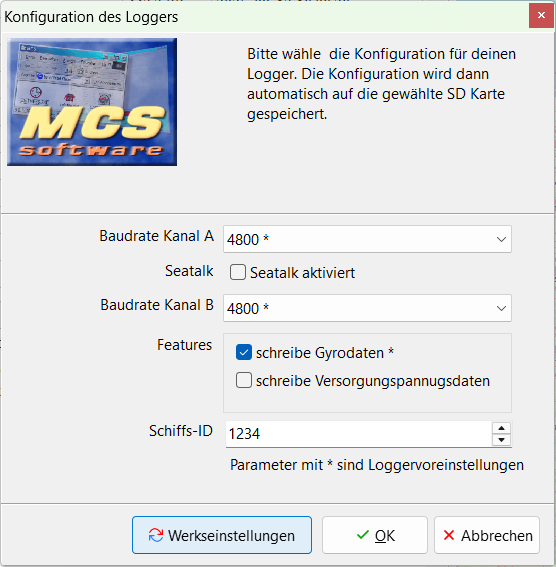
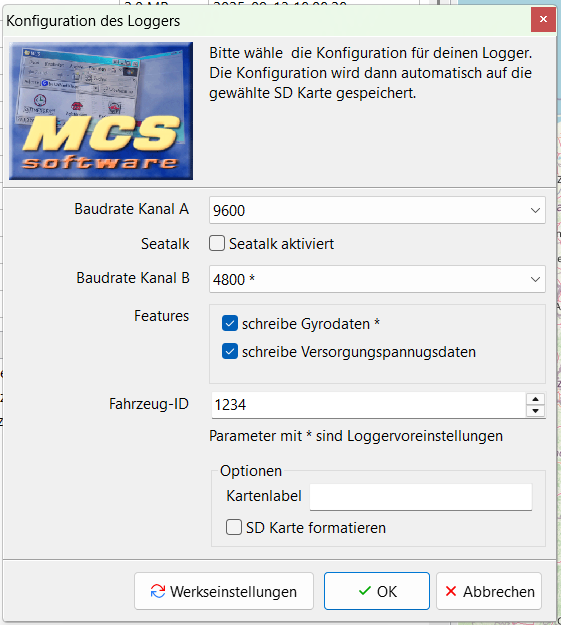
some issues from the tracker.
fixes #6, #7, #8

Changed region(s): [[0.0, 0.0, 1.0, 1.0]]

diff --git a/documentation/MCS Depth Logger UI.md b/documentation/MCS Depth Logger UI.md
@@ -87,7 +87,7 @@ Oder aber du verwendest die in diesem Programm eingebaute Funktion.
 
 ### Konfiguration
 
-![](lg_settings.png)
+![Konfiguration](lg_settings.png)
 
 Zunächst musst du die Baudrate des Gerätes an Port A angeben. Falls dein Geräte Seatalk verwendet, selektiere bitte die Checkbox Seatalk, verwende zusätzlich am Anschluss A den Seatalk Treiber und steck im Geräte den Jumper um. Eine Baudrate brauchst du nicht einzustellen.
 Die Default-Baudrate liegt bei 4800 Baud.
@@ -100,6 +100,12 @@ Versorgungsspannungsdaten dienen der Analyse von Probleme bei der Spannungsverso
 
 **Fahrzeug-ID**
 (optional) Wenn dein Fahrzeug auf der OpenSeaMap Seite registriert ist, kannst du hier deine ID eingeben. Diese ID wird dann im Logger gespeichert und mit in die Datendateien geschrieben.
+
+**Optionen:** In den Optionen können spezielle zusätzliche Optionen gesetzt werden.
+
+**Kartenlabel:** Gib hier dein neues Kartenlabel ein. Das neue Label hat bis zu 11 Zeichen. 
+
+**SD Karte formatieren:** vor dem Schreiben der Konfiguration wird die SD Karte neu formatiert. ACHTUNG: Damit werden natürlich alle bisher vorhandenen Daten gelöscht.  
 
 Über Werkseinstellungen setzt du deine gemachten Einstellungen wieder auf den Standard zurück. Mit OK wird mit den eingegebenen Daten eine neue Konfiguration erzeugt und auf die SD Karte geschrieben, Abbrechen bricht den Vorgang ab.
 
@@ -129,7 +135,7 @@ Hier kannst du auch alte Backup wieder zurück auf eine Karte schreiben.  ![reve
 
 Und du kannst Backups löschen. ![bin3_ico](bin3_ico.png)
 
-![refresh1_ico](refresh1_ico.png) Refreshed die Ansicht und ![folder8_ico](folder8_ico.png) startet den Explorer in dem Backupverzeichnis. Ein Backup kann auch auf einer anderen SD Karte (z.B: mit mehr Speicherplatz) wiederhergestellt werden. Backups sind einfache Zipdateien mit allen Dateien, die sich auf der SD Karte beim Backup befanden. (No Magic behind)
+![refresh1_ico](refresh1_ico.png) Refreshed die Ansicht und ![folder8_ico](folder8_ico.png) startet den Explorer in dem Backupverzeichnis. Ein Backup kann auch auf einer anderen SD Karte (z.B: mit mehr Speicherplatz) wiederhergestellt werden. Backups sind einfache Zipdateien mit allen Dateien, die sich auf der SD Karte beim Backup befanden. (No Magic behind)
 
 ## Tracks
 
@@ -139,11 +145,16 @@ Du kannst mit Hilfe dieses Programm, deine Fahrten als Tracks verwalten. Da der 
 
 Um einen neuen Track zu erzeugen, markiere die Datendateien, die du gerne zusammenfassen möchtest und drücke auf `neuen Track erzeugen`![plus3_ico](plus3_ico.png)Keine Sorge, wenn du mal eine Datei vergessen hast. Diese kannst du später immer noch hinzufügen.
 
-![new track](sc04_newtrack.png)
+![new Track](sc04_newtrack.png)
 
-Gib jetzt die erforderlichen Daten ein. Die **Gruppe** ist dabei das Verzeichnis (ab dem Trackdatenverzeichnis), wo die Datei abgelegt werden soll. Möchtest du eine neue GRuppe anlegen, gibt einfach in dem Feld Gruppe den neuen Namen an. Für die hierachische Unterteilung verwende bitte / oder \. 
+Gib jetzt die erforderlichen Daten ein. 
+
+Die **Gruppe** ist dabei das Verzeichnis (ab dem Trackdatenverzeichniss), wo die Datei abgelegt werden soll. Möchtest du eine neue Gruppe anlegen, gibt einfach in dem Feld Gruppe den neuen Namen an. Für die hierarchische Unterteilung verwende bitte / oder \. 
+
 **Name** gibt den Tracknamen an, und ist auch gleichzeitig der Dateiname. 
-**Beschreibung** läßt dir die Möglichkeit für den Track eine Beschreibung anzugeben. 
+
+**Beschreibung** lässt dir die Möglichkeit für den Track eine Beschreibung anzugeben. 
+
 Die **Fahrzeug-ID** ist wiederum später wichtig, wenn du Tracks zu OpenSeaMap hochladen möchtest. Alle diese Daten werden in der Trackdatei (auch eine einfache ZIP Datei) als `track.json` gespeichert. Weiterhin sind alle ausgewählten Datendatei in der ZIP enthalten und eine spezielle `track.nmea` Datei, die alle relevanten Datenpunkte für diesen Track enthält.
 
 ### Daten hinzufügen
@@ -156,7 +167,7 @@ Solltest du doch einmal eine oder mehrere Datendateien vergessen haben, ist das 
 
 ![Export](sc05_export.png)
 
-Oben im Dialog steht noch einmal der Name des Tracks. Dann folgt eine Box mit den möglichen Formaten. Darunter kannst du die Ausgabedatei festlegen. Über den ![Auswahlknopf](sc05_export_path.png) Knopf kannst du dir das Verzeichnis und den Dateinamen aussuchen.
+Oben im Dialog steht noch einmal der Name des Tracks. Dann folgt eine Box mit den möglichen Formaten. Darunter kannst du die Ausgabedatei festlegen. Über den ![Auswahlknopf](sc05_export_path.png) Knopf kannst du dir das Verzeichnis und den Dateinamen aussuchen.
 
 ## Kartenansicht
 
@@ -190,7 +201,7 @@ Möchtest du eine Datendatei anschauen oder editieren, geht das mit dem ![compos
 
 In die Einstellungen gelangst du mit dem ![settings_ico](settings_ico.png)Knopf. 
 
-![Allgemein](sc11_set1.png)
+![Einstellungen](sc11_set1.png)
 
 Es gibt verschiedene Reiter mit Einstellungen. 
 
